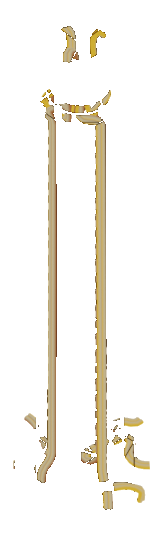
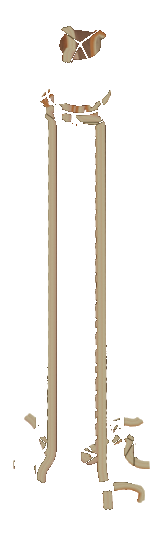
More textures, 110KW solar panels

diff --git a/README.md b/README.md
@@ -4,7 +4,7 @@
 
 This mod adds concentrated solar power to Factorio, in two components:
 
-- **Heliostat Mirrors** - A mirror that rotates to send 100KW of solar power to the closest tower within their range of 33 tiles
+- **Heliostat Mirrors** - A mirror that rotates to send 110KW of solar power to the closest tower within their range of 33 tiles
 - **Solar Towers** - Including the Solar Power Tower, which turns solar energy into up to 60MW of heat, and the Solar Laser Tower, which concentrates solar energy into up to 60MW of solar devastation
 
 ![banner art](non_mod/banner2.png)
